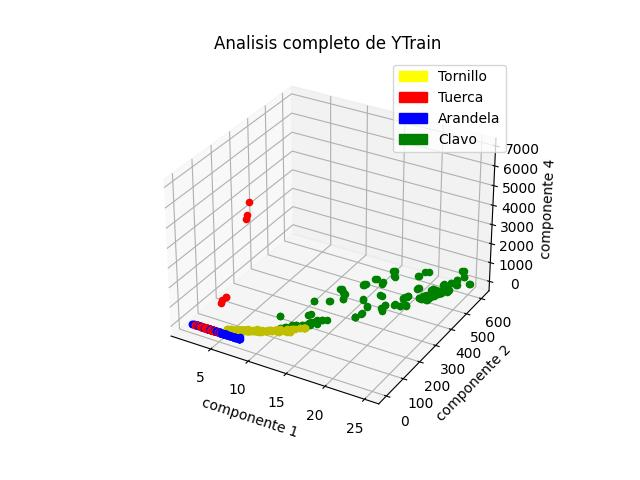
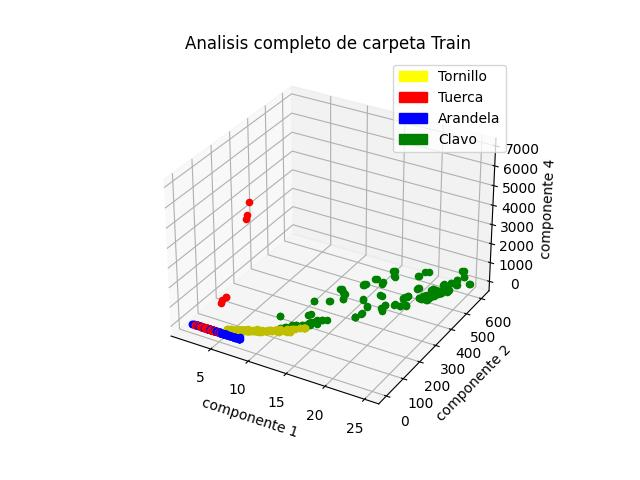
[UPDATE] renombrar funciones de clasificacion y eliminar data innecesaria

Changed region(s): [[0.2812, 0.0625, 0.75, 0.125]]

diff --git a/Clasificador-de-imagenes/p7_clasificacion.py b/Clasificador-de-imagenes/p7_clasificacion.py
@@ -8,6 +8,16 @@ import numpy as np
 import cv2
 import os
 from datetime import datetime
+import random
+
+"""
+VARIABLES GLOBALES
+Para almacenar los datos y graficar
+"""
+global datos, fig, ax
+datos = []
+fig = plt.figure()
+ax = fig.add_subplot(111, projection='3d')
 
 
 def transformacion(image):
@@ -96,16 +106,7 @@ def extraccion(image, hacer_transformacion=False):
     return aux, [hu[0], hu[1], hu[3]]
 
 
-global datos
-datos = []
-
-global fig
-fig = plt.figure()
-global ax
-ax = fig.add_subplot(111, projection='3d')
-
-
-def Data_base():
+def generar_base_datos():
     print("\n--------------------------------------------------------------------")
     print("Comienza carga de Data Base")
     print("--------------------------------------------------------------------\n")
@@ -121,9 +122,6 @@ def Data_base():
             self.image = None
             self.caracteristica = []
             self.distancia = 0
-
-    # Analisis de la base de datos (YTrain)
-    ##Entrenamiento de la base de datos 
 
     # Cargar path de las imagenes
     tornillo_path = './dataset/transformado/train/Tornillos/'
@@ -202,7 +200,7 @@ def Data_base():
     print("Clavos OK")
 
     ax.grid(True)
-    ax.set_title("Analisis completo de YTrain")
+    ax.set_title("Analisis completo de carpeta Train")
 
     yellow_patch = mpatches.Patch(color='yellow', label='Tornillo')
     red_patch = mpatches.Patch(color='red', label='Tuerca')
@@ -217,12 +215,10 @@ def Data_base():
     plt.savefig("pruebas/7_clasificacion/grafico_base_de_datos.jpg")
     # plt.show()
 
-    print("Analisis completo de la base de datos de YTrain")
-    print("Cantidad de imagenes analizadas: ")
-    print(len(datos))
+    print("Analisis completo de la base de datos de Train")
+    print("Cantidad de imagenes analizadas: ", len(datos))
 
     # Elemento a evaluar
-    # Recordar aplicar Transformacion.py cuando se quiera evaluar una nueva imagen.
     test = Elemento()
 
     print("--------------------------------------------------------------------\n")
@@ -246,7 +242,9 @@ def clasifica(image, test, numero_caja):
     ax.scatter(test.caracteristica[0], test.caracteristica[1], test.caracteristica[2], c='k', marker='o')
     fig
 
-    # KNN
+    """
+    KNN: K Nearest Neighbors
+    """
     print("\nInicializacion KNN")
     i = 0
     sum = 0
@@ -268,11 +266,13 @@ def clasifica(image, test, numero_caja):
             d = sum
             test.pieza = element.pieza
 
-    print("Prediccion para KNN con K=1: ")
-    print(test.pieza)
+    print("Prediccion para KNN con K=1: ", test.pieza)
     KNN = test.pieza
 
-    # Algoritmo de ordenamiento de burbuja-> lo elegi porque es bastante estable
+    """
+    BUBBLE SORT: Algoritmo de ordenamiento de burbuja
+    Lo elegi porque es bastante estable
+    """
     swap = True
     while swap:
         swap = False
@@ -287,8 +287,9 @@ def clasifica(image, test, numero_caja):
     for i in range(k):
         print(datos[i].pieza)
 
-    # K MEANS
-    import random
+    """
+    K MEANS
+    """
     print("\nInicializacion KMeans")
 
     tornillo_data = []
@@ -336,11 +337,6 @@ def clasifica(image, test, numero_caja):
     plt.savefig("pruebas/7_clasificacion/means_de_caja_" + str(numero_caja) + ".jpg")
 
     # Asignacion, Actualizacion y Convergencia
-    tornillo_flag = True
-    tuerca_flag = True
-    arandela_flag = True
-    clavo_flag = True
-
     tornillo_len = [0, 0, 0]
     tuerca_len = [0, 0, 0]
     arandela_len = [0, 0, 0]
@@ -434,25 +430,16 @@ def clasifica(image, test, numero_caja):
         # print(len(tornillo_data), len(tuerca_data), len(arandela_data), len(clavo_data))
 
         # CONVERGENCIA Y CONDICION DE SALIDA
-
-        if tornillo_mean == tornillo_len:
-            tornillo_flag = False
-        else:
+        if not tornillo_mean == tornillo_len:
             tornillo_len = tornillo_mean
 
-        if tuerca_mean == tuerca_len:
-            tuerca_flag = False
-        else:
+        if not tuerca_mean == tuerca_len:
             tuerca_len = tuerca_mean
 
-        if arandela_mean == arandela_len:
-            arandela_flag = False
-        else:
+        if not arandela_mean == arandela_len:
             arandela_len = arandela_mean
 
-        if clavo_mean == clavo_len:
-            clavo_flag = False
-        else:
+        if not clavo_mean == clavo_len:
             clavo_len = clavo_mean
 
         iter += 1
@@ -506,8 +493,7 @@ def clasifica(image, test, numero_caja):
     elif aux == dist_clavo:
         test.pieza = 'Clavo'
 
-    print("\nPrediccion para KMeans: ")
-    print(test.pieza)
+    print("\nPrediccion para KMeans: ", test.pieza)
     KMEANS = test.pieza
 
     # confidendes = {"KNN": KNN, "KMEANS": KMEANS}
@@ -516,7 +502,7 @@ def clasifica(image, test, numero_caja):
     return respuesta
 
 
-def GenerarArchivo(orden):
+def generar_archivo(orden):
     # Generar un txt con el orden de apilamiento
     file = open("../Apilamiento/datos.txt", "w")
     ahora = datetime.now()
@@ -529,10 +515,18 @@ def GenerarArchivo(orden):
     file.close()
 
 
+def mostrar_apilado(orden_apilado):
+    print("\n\nRepresentación Simbolica del Resultado de la secuencia:")
+    for i in range(len(orden_apilado)):
+        print("\t-------------------------")
+        print("\t|\t", orden_apilado[len(orden_apilado) - 1 - i], " \t|")
+    print("\t=========================\n")
+
+
 def main(foto4, foto3, foto2, foto1):
     orden = []
 
-    test = Data_base()
+    test = generar_base_datos()
     resultado1 = clasifica(foto1, test, 1)
     resultado2 = clasifica(foto2, test, 2)
     resultado3 = clasifica(foto3, test, 3)
@@ -550,7 +544,7 @@ def main(foto4, foto3, foto2, foto1):
     orden.append(aux[1])
 
     # Archivo con el orden de apilamiento
-    GenerarArchivo(orden)
+    generar_archivo(orden)
 
     print("\n--------------------------------------------------------------------")
     print("Conclusiones")
@@ -563,17 +557,9 @@ def main(foto4, foto3, foto2, foto1):
 
     print("\nLa secuencia de apilamiento ascendente es:", orden)
 
-    Mostrar_Apilado(orden)
+    mostrar_apilado(orden)
 
     return resultado4, resultado3, resultado2, resultado1, orden
-
-
-def Mostrar_Apilado(Apilado):
-    print("\n\nRepresentación Simbolica del Resultado de la secuencia:")
-    for i in range(len(Apilado)):
-        print("\t-------------------------")
-        print("\t|\t", Apilado[len(Apilado) - 1 - i], " \t|")
-    print("\t=========================\n")
 
 
 if __name__ == '__main__':  # Para que se pueda usar sin interfaz
@@ -598,7 +584,7 @@ if __name__ == '__main__':  # Para que se pueda usar sin interfaz
         numero = input(text)
         fotos_cajas.append(numero)
 
-    test = Data_base()
+    test = generar_base_datos()
     resultado = []
     for i in range(cant_cajas):
         nombre = './dataset/evaluacion/photo' + str(fotos_cajas[cant_cajas - i - 1]) + '.jpg'
@@ -623,9 +609,9 @@ if __name__ == '__main__':  # Para que se pueda usar sin interfaz
     aux = resultado[3][0].split(":")
     orden.append(aux[1])
 
-    GenerarArchivo(orden)
+    generar_archivo(orden)
 
     print("\nLa secuencia de apilamiento ascendente es:", orden)
 
-    Mostrar_Apilado(orden)
+    mostrar_apilado(orden)
     print("\nFin de la Ejecución")
